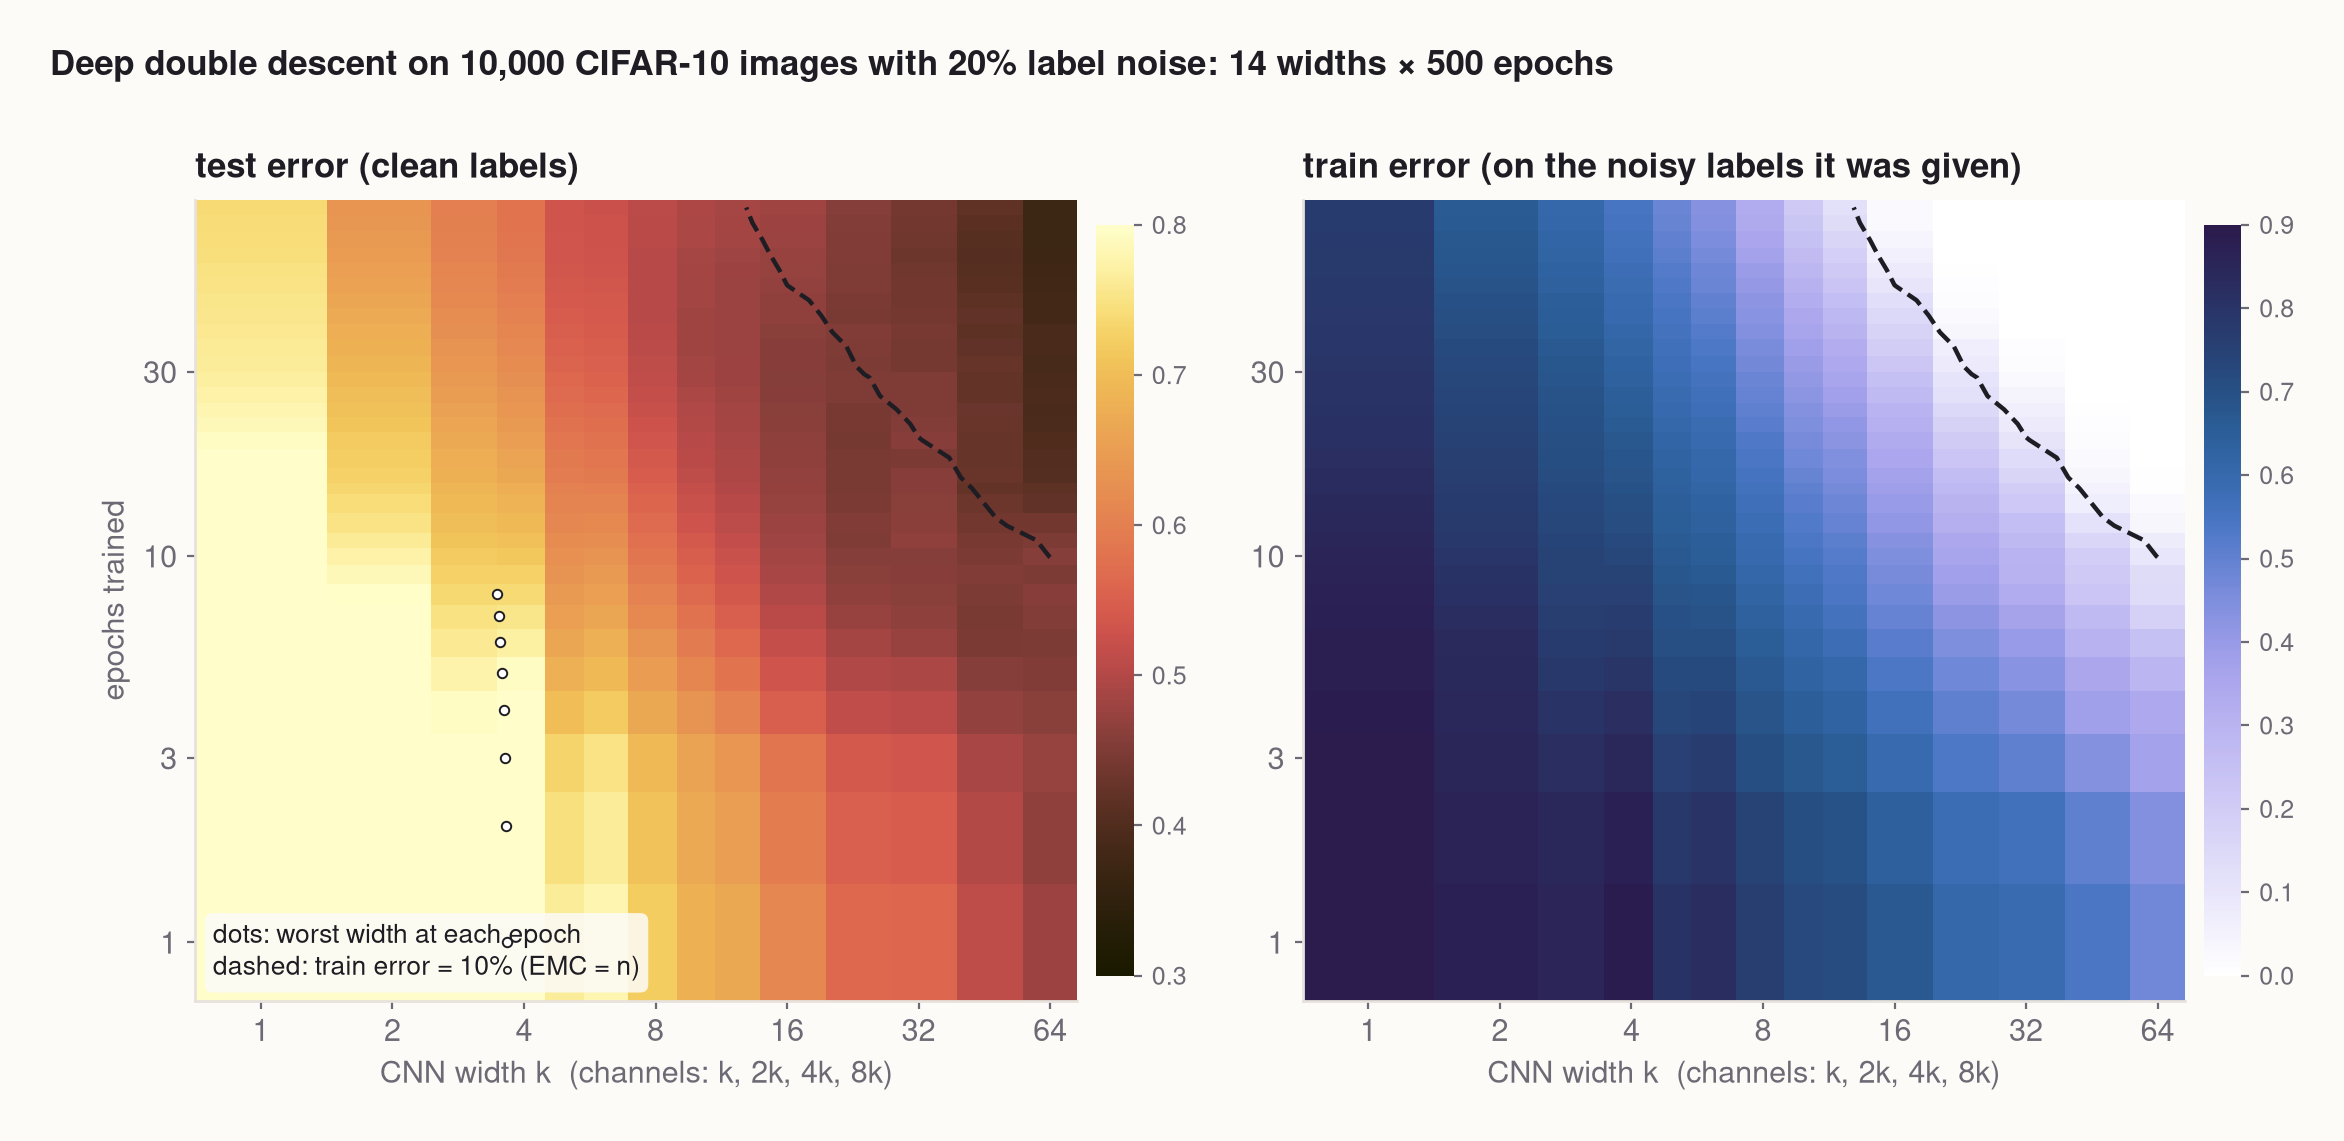
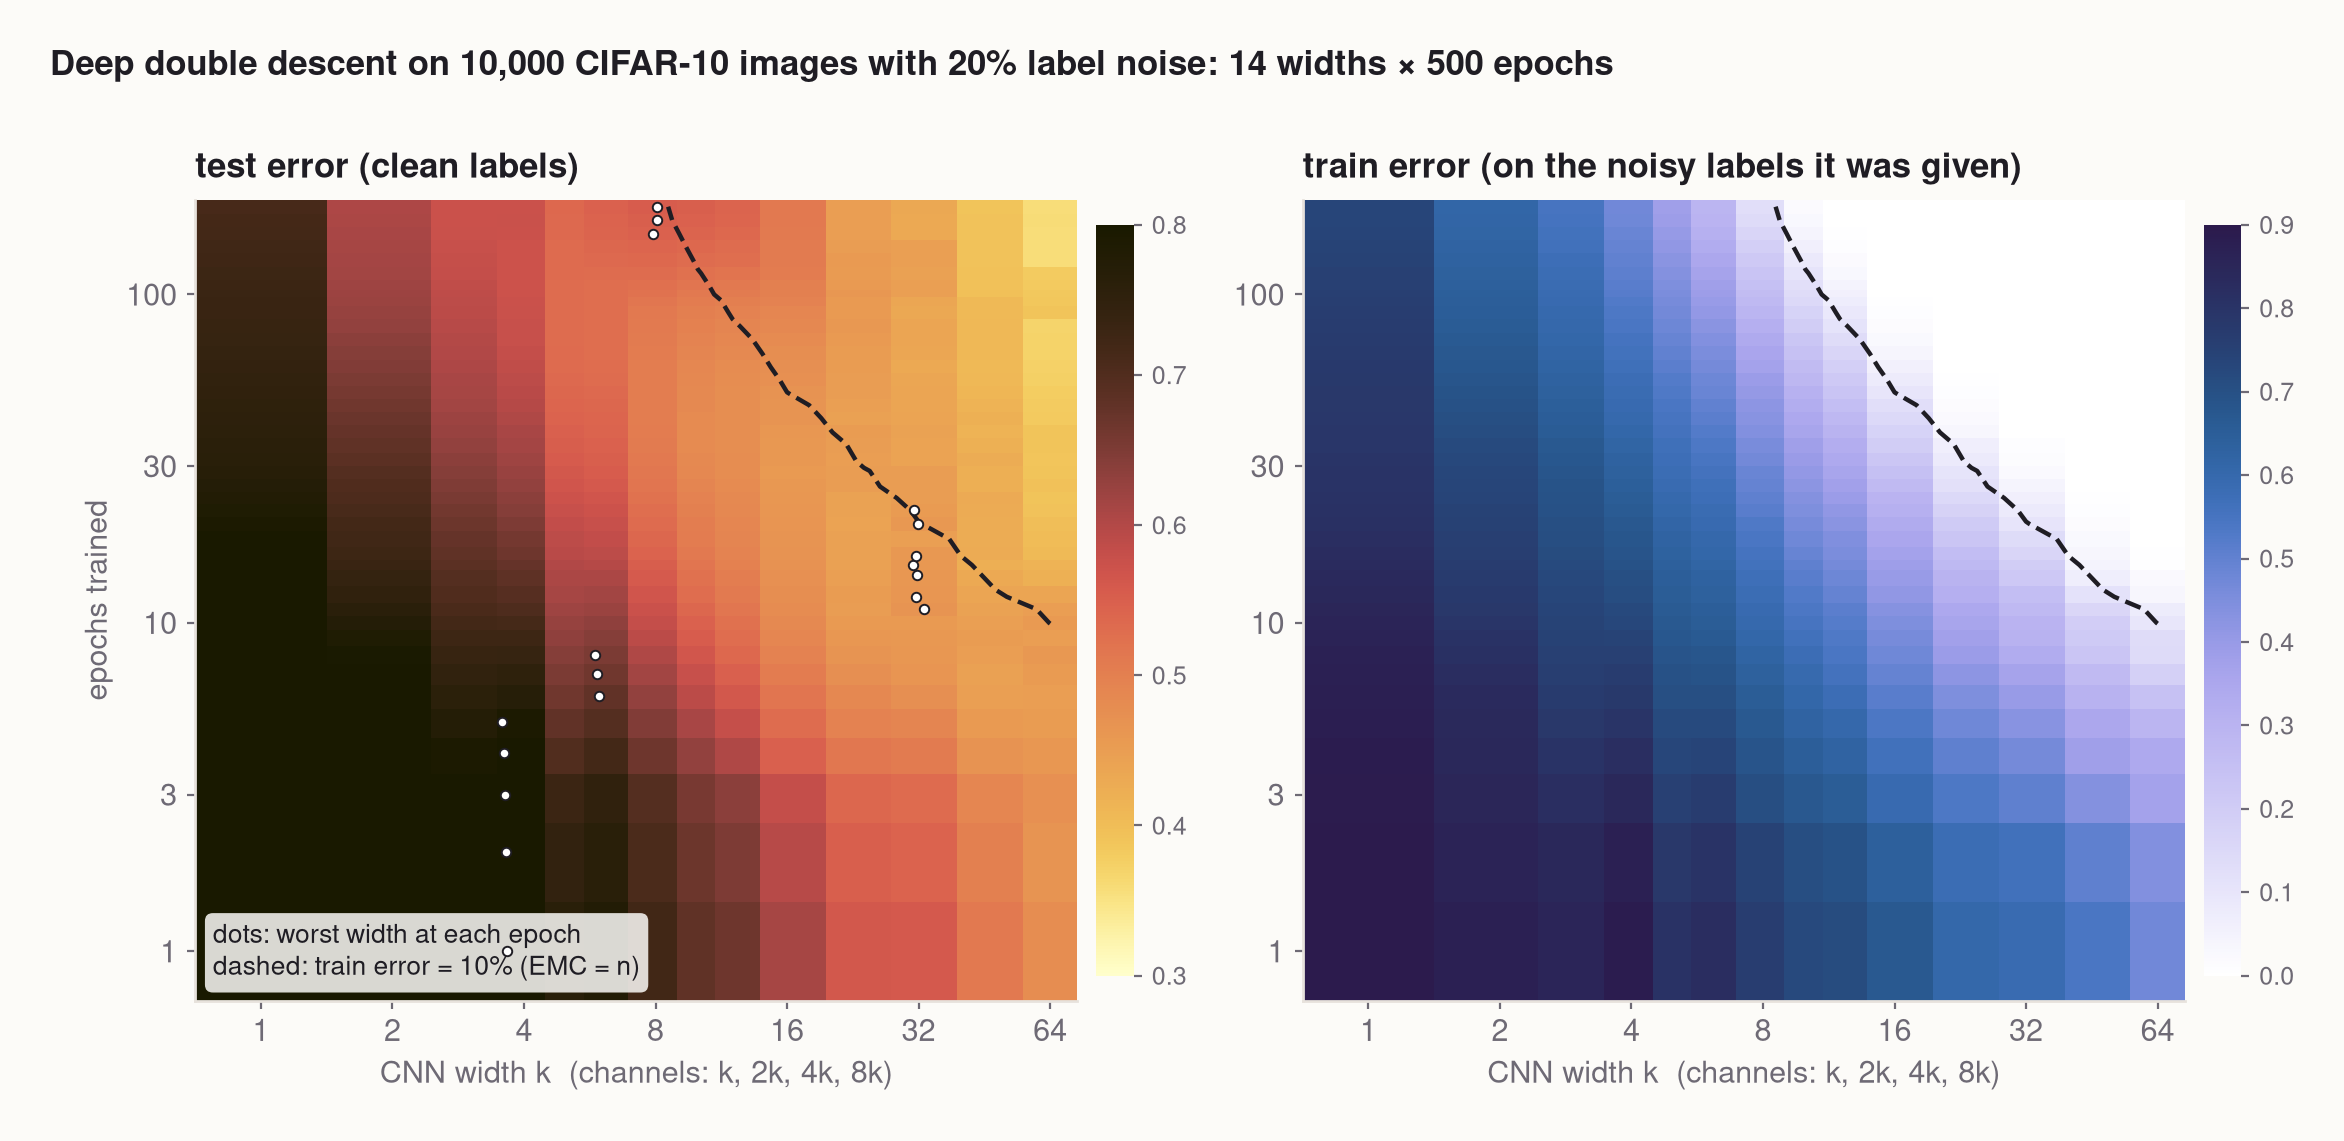
theory/01-double-descent: pause (CNN sweep at epoch 425-500, PAUSED.md with resume steps)

diff --git a/theory/01-double-descent/render_cnn.py b/theory/01-double-descent/render_cnn.py
@@ -4,6 +4,7 @@ import numpy as np
 import matplotlib.pyplot as plt
 from matplotlib.ticker import FixedLocator, NullFormatter, NullLocator
 import cmcrameri.cm as cmc
+from sklearn.isotonic import IsotonicRegression
 
 import cnn_data as cd
 import style as S
@@ -11,6 +12,7 @@ import style as S
 HERE = pathlib.Path(__file__).resolve().parent
 FIG = HERE / "figures"
 EPS = 0.10
+MIN_BUMP = 0.015
 
 
 def edges_log(v):
@@ -41,21 +43,33 @@ def analysis(d, eps=EPS, kmin_peak=3):
     sel = ks >= kmin_peak
     kpk, kem = [], []
     for j in range(len(E)):
-        # a double-descent peak: a width whose test error exceeds the best smaller AND the best larger width.
-        # take the most prominent one; require prominence >= 0.01 (about 2x the epoch-to-epoch eval noise)
+        # a double-descent bump = excess of test error over the best non-increasing (isotonic) fit in width.
+        # peak width = argmax of that excess (parabolic refinement in log k); require excess >= MIN_BUMP
         col = te[:, j]
-        prom = np.full(len(ks), -np.inf)
-        for i in range(1, len(ks) - 1):
-            prom[i] = col[i] - max(col[:i].min(), col[i + 1:].min())
-        i = int(np.argmax(prom))
-        if prom[i] >= 0.01 and ks[i] >= kmin_peak:
+        exc = col - IsotonicRegression(increasing=False).fit(np.log(ks), col).predict(np.log(ks))
+        i = int(np.argmax(exc))
+        if exc[i] >= MIN_BUMP and ks[i] >= kmin_peak:
             lo, hi = max(0, i - 1), min(len(ks), i + 2)
-            kp, _ = cd.peak_location(ks[lo:hi], col[lo:hi])
+            kp, _ = cd.peak_location(ks[lo:hi], exc[lo:hi])
             kpk.append(kp)
         else:
             kpk.append(np.nan)
         kem.append(cd.crossing(ks, tr[:, j], eps))
     return te, tr, np.array(kpk), np.array(kem)
+
+
+def bump_height(d):
+    te = cd.smooth_epochs(d["test_err"], 2)
+    ks = d["k"]
+    return np.array([np.max(te[:, j] - IsotonicRegression(increasing=False).fit(np.log(ks), te[:, j]).predict(np.log(ks)))
+                     for j in range(te.shape[1])])
+
+
+def eval_noise(d):
+    """Epoch-to-epoch eval jitter: std of test error around its 5-point running mean, widths >= 24, epochs >= 100."""
+    te = d["test_err"]; sm = cd.smooth_epochs(te, 2)
+    sel = d["k"] >= 24; late = d["epoch"] >= 100
+    return float(np.std((te - sm)[np.ix_(sel, late)]))
 
 
 def fig_heat(d):

diff --git a/theory/01-double-descent/cnn_data.py b/theory/01-double-descent/cnn_data.py
@@ -27,9 +27,15 @@ def load(tag="main", n=10000, noise=20, use_logs=True):
                 test_loss=get("test_loss"), fit_noisy=get("fit_noisy"))
 
 
-def smooth_epochs(A, w=2):
-    """Running mean over +-w neighbouring evaluations (evals are log-spaced in epoch), per width row."""
-    out = np.empty_like(A)
+def smooth_epochs(A, w=2, epochs=None, sigma_dec=0.07):
+    """Smooth each width's history in training time. With `epochs`, a Gaussian kernel in log10(epoch) of width
+    sigma_dec decades (causal-free, symmetric); otherwise a running mean over +-w neighbouring evaluations."""
+    out = np.empty_like(A, dtype=float)
+    if epochs is not None:
+        le = np.log10(np.asarray(epochs, float))
+        W = np.exp(-0.5 * ((le[:, None] - le[None, :]) / sigma_dec) ** 2)
+        W /= W.sum(1, keepdims=True)
+        return A @ W.T
     for j in range(A.shape[1]):
         lo, hi = max(0, j - w), min(A.shape[1], j + w + 1)
         out[:, j] = A[:, lo:hi].mean(1)

diff --git a/theory/01-double-descent/PAUSED.md b/theory/01-double-descent/PAUSED.md
@@ -1,0 +1,31 @@
+# PAUSED (wind-down requested)
+
+## Done
+- **Core math and tests.** `dd_core.py` holds the closed forms and simulators; `test_core.py` passes.
+- **Reproductions, rendered in `figures/`:**
+  - linear model: the family, sizes, bias/variance and ridge plates;
+  - random features vs Mei–Montanari (`rf_mm.png`);
+  - anisotropy (`aniso.png`);
+  - frozen vs trained two-layer net (`twolayer.png`).
+- **Animations:** `hero.mp4` and `mp_edge.mp4`.
+- **Widgets:** `widgets/rf.js` and `widgets/risk.js`. Their self-tests pass at `post.html#selftest`.
+- **Post draft:** `post.md` is complete except for §6.1 (the CNN), marked `CNN_SECTION_PLACEHOLDER`, and `CNN_HOURS` in "Reproduce it".
+
+## Interrupted
+The CNN sweep was killed.
+- Widths 5, 12, 24, 32 and 48 finished all 500 epochs.
+- The other widths (1, 2, 3, 4, 6, 8, 10, 16, 64) stopped at epoch 427. Their last checkpoint is at epoch 425.
+- Resume with `_shared/gpu_run.sh bash 01-double-descent/run_cnn.sh main 10000 0.2 500`. It skips finished widths quickly.
+- About 1.75 GPU-slot-hours have been used so far.
+
+## Next steps
+1. Resume the CNN sweep to 500 epochs.
+2. Render the CNN figures: `python render_cnn.py all` and `python render_cnn_anim.py`.
+3. Fix the peak detector.
+   - The epoch-to-epoch test-error jitter for wide nets is about 0.028.
+   - The model-wise bump at epoch 268 is only about 0.026, at k≈8 (the EMC=n width there is 7.4). It grows with training.
+   - Use `smooth_epochs(..., epochs=E)` together with a prominence rule. Consider extending widths 4–24 to about 1000 epochs.
+4. Write §6.1, using the heatmap, slices, EMC scatter and animation. Report honestly that the bump is weak at 500 epochs.
+5. Replace ★ in `render_cnn.py`; the font lacks that glyph.
+6. Add `compute_twolayer.py` / `render_twolayer.py` to "Reproduce it".
+7. Do a final render and screenshot check, then write the final report.
